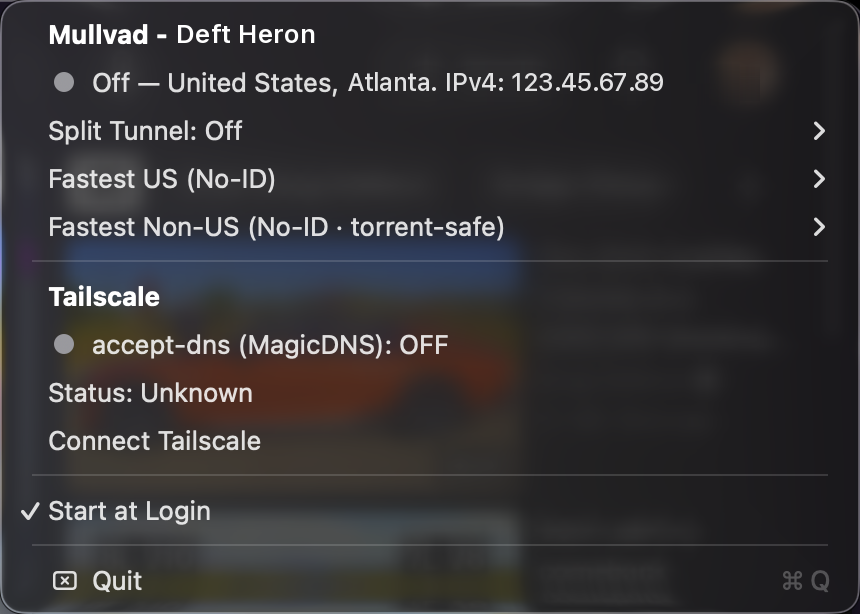
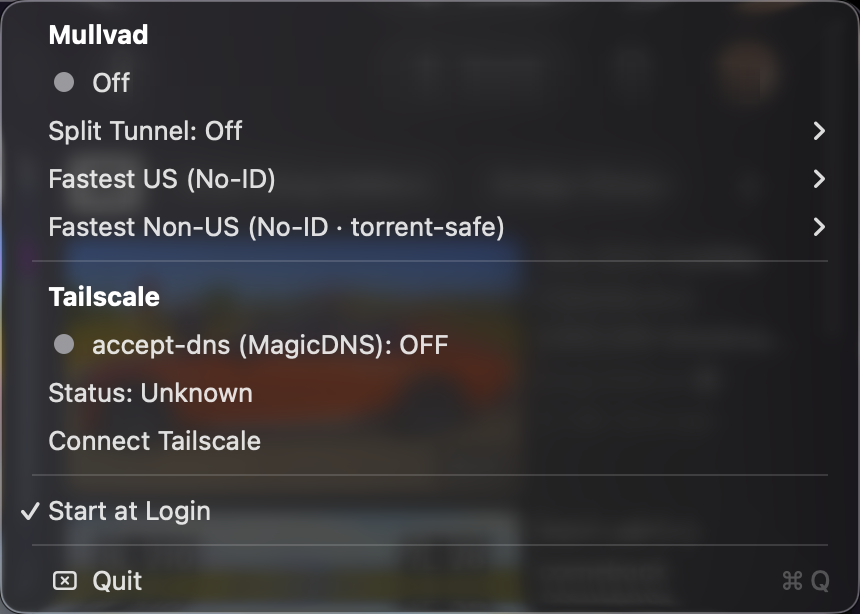
Scrub the device name, city and IP from the README and its screenshot

Changed region(s): [[0.1512, 0.0928, 0.786, 0.1547], [0.1814, 0.0309, 0.3628, 0.0928]]

diff --git a/README.md b/README.md
@@ -43,8 +43,8 @@ Prefer the original dot? **menu ▸ Icon ▸ Dot**.
 Clicking it opens a dropdown, grouped into two bold section headers:
 
 ```
-Mullvad - Calm Lynx                      ← bold section header, names this
-  ●  Connection — Denver, CO · ON           machine's registered device
+Mullvad - Device Name                    ← bold section header, names this
+  ●  Connection — City, ST · ON             machine's registered device
   Split Tunnel: On                       ▸ toggle + excluded-app list
   Fastest US (No-ID)                     ▸ top-5 cities, ✓ = current
   Fastest Non-US (No-ID · torrent-safe)  ▸
@@ -70,7 +70,7 @@ at full contrast too (never the faint disabled gray).
 
 **The three status rows are the same row three times**: a coloured dot, a name,
 whatever detail that row has, and the state as the last word — `Connection —
-Denver, CO · ON` — and clicking any of them toggles what it describes. Mullvad's
+City, ST · ON` — and clicking any of them toggles what it describes. Mullvad's
 dot reuses the menu-bar mapping (green connected · orange connecting or
 disconnecting · red blocked · grey off) and its in-between states say so rather
 than being forced into ON/OFF; connecting goes to Mullvad's own persisted relay

diff --git a/CHANGELOG.md b/CHANGELOG.md
@@ -8,6 +8,10 @@ without one is refused (`[no release]` in the tip commit is the only exception).
 Versions follow [Semantic Versioning](https://semver.org/). The full rule:
 [StatusItemKit — Releases](https://github.com/nicholaspsmith/StatusItemKit#releases-every-push-is-one).
 
+## [1.1.2] - 2026-09-28
+
+- The README's menu screenshot and example menu no longer show a Mullvad device name, relay city or IP address
+
 ## [1.1.1] - 2026-09-28
 
 - `install.sh` now asks whether to turn on Start at Login (skipped when it is already on, or when there is no terminal to ask in) instead of turning it on unasked, then relaunches the app, quitting any running copy first so the new build takes over

diff --git a/docs/superpowers/specs/2026-08-02-menu-readability-design.md b/docs/superpowers/specs/2026-08-02-menu-readability-design.md
@@ -138,7 +138,7 @@ tunneling already on — never enabled by us):
 
 ```
 Mullvad                        ← native section header
-  Mullvad: Connected (Denver)
+  Mullvad: Connected (City)
   Split Tunnel                ▸
   Fastest US (No-ID)          ▸
   Fastest Non-US (No-ID · …)  ▸
